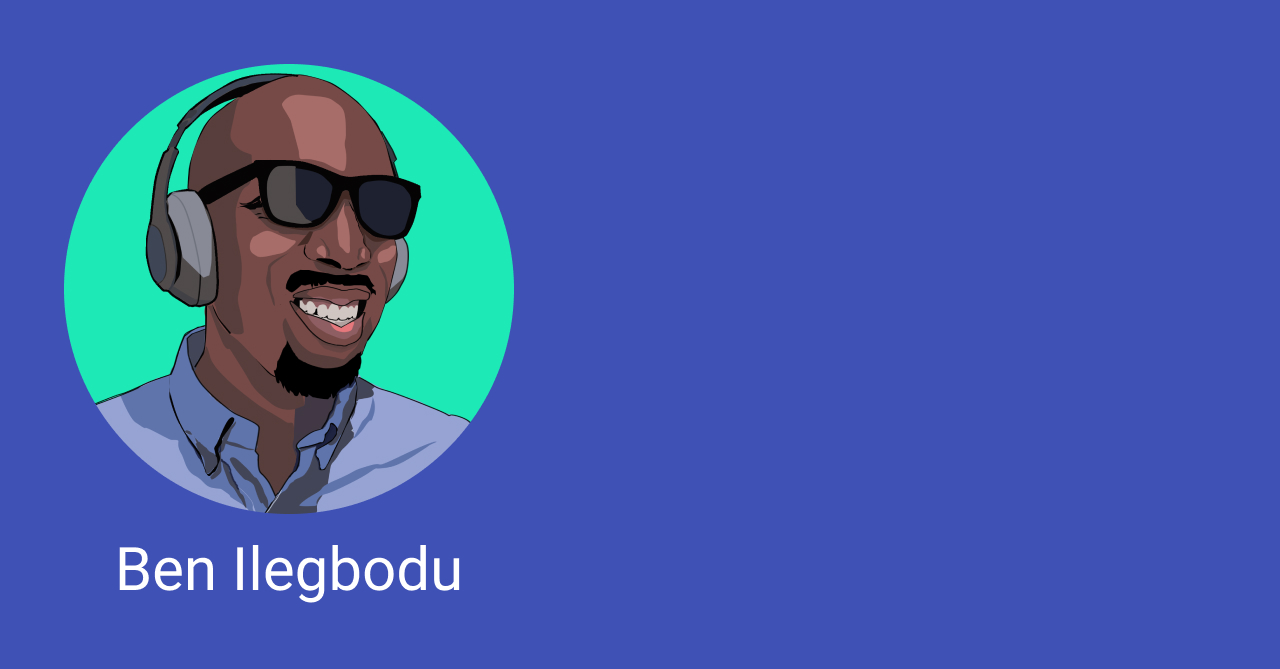
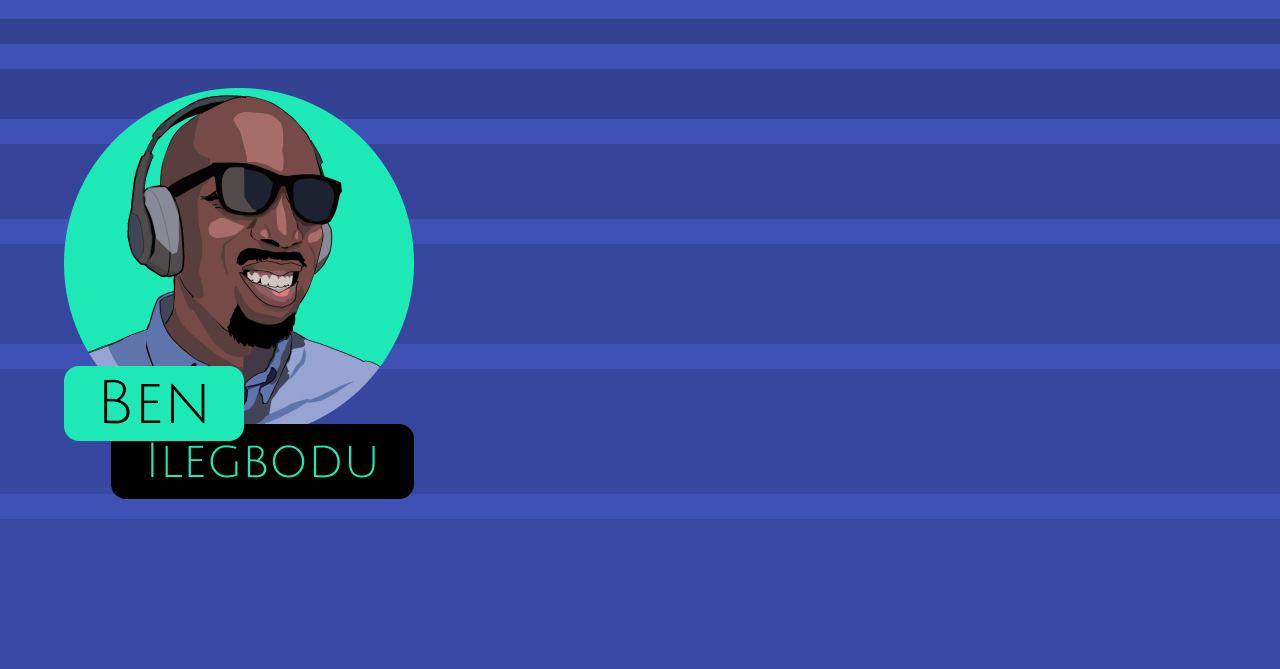
Add social image to blog posts & minishop pages

diff --git a/src/utils/generate-social-image.ts b/src/utils/generate-social-image.ts
@@ -1,6 +1,6 @@
 interface Config {
   title: string
-  tagline: string
+  tagline?: string
   imagePublicID?: string
   cloudName?: string
   version?: string | null
@@ -20,19 +20,19 @@ interface Config {
 const generateSocialImage = ({
   title,
   tagline,
-  imagePublicID = 'benmvp/blog-post-template',
-  version = 'v1601356888',
+  imagePublicID = 'benmvp/blog-post-template_xz3hus',
+  version = 'v1601530635',
   titleFont = 'roboto',
-  taglineFont = 'roboto%20condensed',
+  taglineFont = 'roboto',
   imageWidth = 1280,
   imageHeight = 669,
-  textAreaWidth = 660,
-  textLeftOffset = 580,
-  titleBottomOffset = 254,
-  taglineTopOffset = 445,
+  textAreaWidth = 666,
+  textLeftOffset = 550,
+  titleBottomOffset = 327,
+  taglineTopOffset = 370,
   textColor = 'ffffff',
-  titleFontSize = 64,
-  taglineFontSize = 48,
+  titleFontSize = 70,
+  taglineFontSize = 40,
 }: Config): string => {
   // configure social media image dimensions, quality, and format
   const imageConfig = [
@@ -51,19 +51,25 @@ const generateSocialImage = ({
     'g_south_west',
     `x_${textLeftOffset}`,
     `y_${titleBottomOffset}`,
-    `l_text:${titleFont}_${titleFontSize}:${encodeURIComponent(title)}`,
+    `l_text:${encodeURIComponent(
+      titleFont,
+    )}_${titleFontSize}_bold:${encodeURIComponent(title)}`,
   ].join(',')
 
   // configure the tagline text
-  const taglineConfig = [
-    `w_${textAreaWidth}`,
-    'c_fit',
-    `co_rgb:${textColor}`,
-    'g_north_west',
-    `x_${textLeftOffset}`,
-    `y_${taglineTopOffset}`,
-    `l_text:${taglineFont}_${taglineFontSize}:${encodeURIComponent(tagline)}`,
-  ].join(',')
+  const taglineConfig = tagline
+    ? [
+        `w_${textAreaWidth}`,
+        'c_fit',
+        `co_rgb:${textColor}`,
+        'g_north_west',
+        `x_${textLeftOffset}`,
+        `y_${taglineTopOffset}`,
+        `l_text:${encodeURIComponent(
+          taglineFont,
+        )}_${taglineFontSize}_light:${encodeURIComponent(tagline)}`,
+      ].join(',')
+    : ''
 
   // combine all the pieces required to generate a Cloudinary URL
   const urlParts = [

diff --git a/src/templates/Minishop.tsx b/src/templates/Minishop.tsx
@@ -20,6 +20,7 @@ import Share from '../components/Share'
 import MinishopCard from '../components/MinishopCard'
 import MinishopTestimonials from '../components/MinishopTestimonials'
 import { getUrl, getMinishopUrl } from '../utils'
+import generateSocialImage from '../utils/generate-social-image'
 import useMinishops from '../utils/useMinishops'
 
 const useStyles = makeStyles((theme) =>
@@ -68,6 +69,10 @@ const Minishop = ({ data }) => {
   const url = getMinishopUrl(slug)
   const fullTitle = `${title} Minishop`
   const summary = subTitle || excerpt
+  const seoImageUrl = generateSocialImage({
+    title: fullTitle,
+    tagline: subTitle,
+  })
   const isUpcomingEvent = event?.start
     ? isFuture(Date.parse(event.start))
     : false
@@ -100,8 +105,8 @@ const Minishop = ({ data }) => {
         title={`${fullTitle}/Workshop`}
         url={url}
         description={summary}
-        image={hero?.childImageSharp?.fluid?.src}
-        imageAlt={heroAlt}
+        image={seoImageUrl}
+        imageAlt={fullTitle}
         type="events.event"
         meta={[
           ...(event

diff --git a/src/templates/Post.tsx b/src/templates/Post.tsx
@@ -100,10 +100,8 @@ const Post = ({ data }) => {
   const url = getBlogUrl(slug)
   const seoImageUrl = generateSocialImage({
     title,
-    tagline: tags.join(' '),
+    tagline: description || subTitle,
   })
-
-  console.log(seoImageUrl)
 
   useEffect(() => {
     if (upcomingMinishops.length) {
@@ -125,8 +123,8 @@ const Post = ({ data }) => {
         title={title}
         description={summary}
         url={url}
-        image={hero?.childImageSharp?.fluid?.src}
-        imageAlt={heroAlt}
+        image={seoImageUrl}
+        imageAlt={title}
         type="article"
         meta={[
           { property: 'og:article:published_time', content: dateIso },
